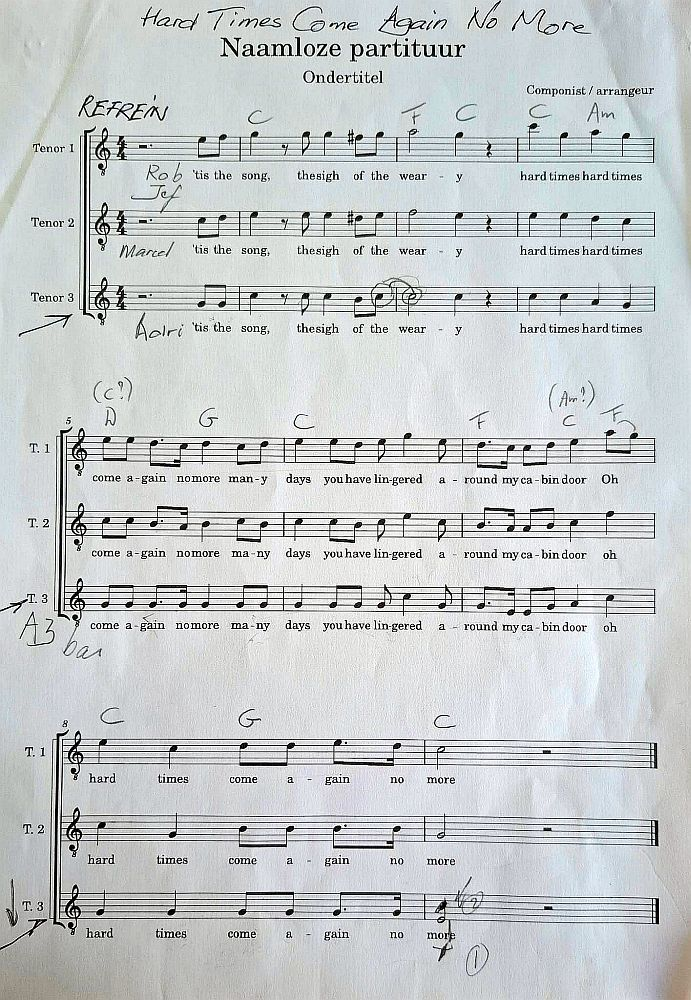
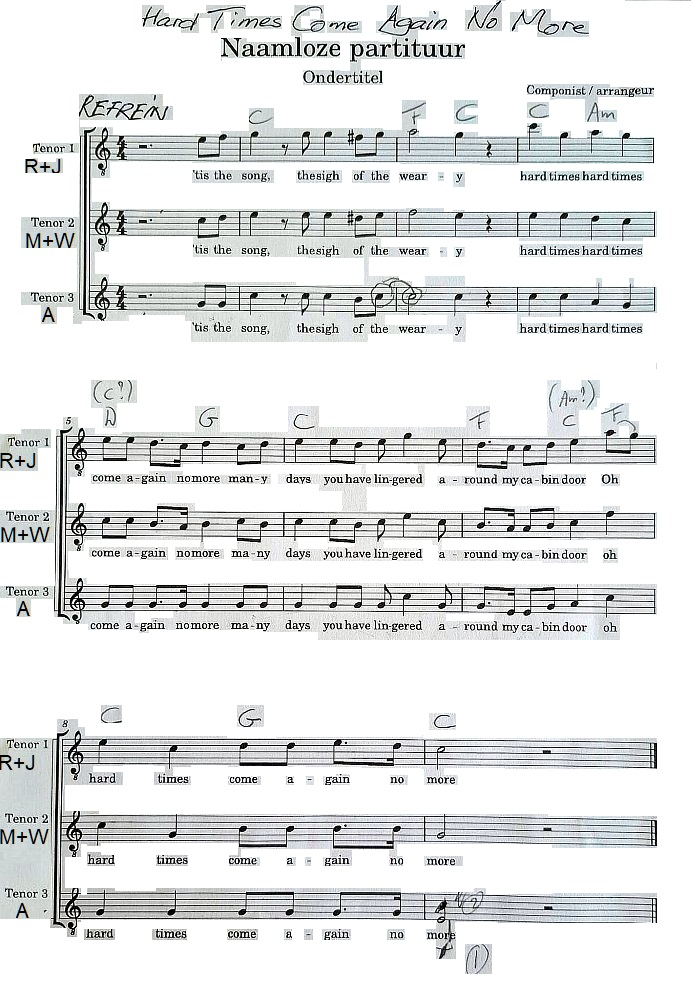
Add multiple notation buttons
The song parser now collects all image/PDF file references from the <meta> tag and renders them as a row of buttons. This adds the Hard Times variant files (A/J/M/R/W) and wires them into the song metadata so each notation image is accessible from the page.

diff --git a/index.html b/index.html
@@ -25,7 +25,8 @@ input[type=search]{width:100%;padding:11px 12px;font:inherit;border:1px solid va
 .bedien button.aan{background:var(--chord);border-color:var(--chord);color:var(--bg);font-weight:700}
 .bedien button:focus-visible{outline:2px solid var(--chord);outline-offset:2px}
 .bedien .sp{width:10px}
-.noten{display:inline-block;margin:4px 0 8px;padding:8px 14px;border:1px solid var(--chord);border-radius:6px;color:var(--chord);text-decoration:none;font-weight:600}
+.notenrij{display:flex;flex-wrap:wrap;gap:8px;margin:4px 0 10px}
+.noten{display:inline-block;padding:8px 14px;border:1px solid var(--chord);border-radius:6px;color:var(--chord);text-decoration:none;font-weight:600}
 .noten:hover,.noten:focus-visible{background:var(--card)}
 .video{aspect-ratio:16/9;width:100%;max-width:560px;border:0;border-radius:6px;background:#000;margin:6px 0 4px}
 .tekst{margin-top:14px}
@@ -69,8 +70,14 @@ function transponeer(akkoord, stappen, tabel) {
 
 function parseSong(tekst) {
   const meta = {};
+  const bestanden = [];   // alle <meta>-velden waarvan de waarde een pdf/afbeelding is -> knop
   tekst = tekst.replace(/<meta>([\s\S]*?)<\/meta>/i, (_, m) => {
-    m.split(';').forEach(d => { const i = d.indexOf(':'); if (i > 0) meta[d.slice(0,i).trim().toLowerCase()] = d.slice(i+1).trim(); });
+    m.split(';').forEach(d => {
+      const i = d.indexOf(':'); if (i <= 0) return;
+      const naam = d.slice(0,i).trim(), waarde = d.slice(i+1).trim();
+      meta[naam.toLowerCase()] = waarde;
+      if (/\.(pdf|jpe?g|png|gif|webp)$/i.test(waarde)) bestanden.push([naam, waarde]);
+    });
     return '';
   });
   let key = '';
@@ -91,7 +98,7 @@ function parseSong(tekst) {
     for (let i = 1; i < delen.length; i += 2) segs.push({ch:delen[i], ly:delen[i+1] || ''});
     regels.push({t:'ly', segs});
   }
-  return {meta, key, kop, capo, regels};
+  return {meta, bestanden, key, kop, capo, regels};
 }
 
 // 'Capo: No capo', 'Capo: -' of 'Capo: geen' -> 0; 'Capo: 2' of 'Capo: 2e fret' -> 2
@@ -169,6 +176,10 @@ async function toonSong(bestand) {
   let stap = (sk && origIdx >= 0 && idx(sk[1]) >= 0) ? (idx(sk[1]) - origIdx + 12) % 12 : 0;
   let capo = capoStart;
   const vid = youtubeId(song.meta.youtubeurl);
+  // knoppen: elk <meta>-veld met een pdf- of afbeeldingsbestand (noten, Sopraan, Alt, A, J, ...)
+  const notenKnoppen = song.bestanden
+    .map(([naam, w]) => `<a class="noten" href="${map}/${encodeURIComponent(w)}" target="_blank" rel="noopener">${naam.toLowerCase() === 'noten' ? '♪ Notenbeeld' : esc(naam)}</a>`)
+    .join('');
 
   app.innerHTML = `<a class="terug" href="#">‹ Alle songs</a>
     <h1>${esc(titel)}</h1>
@@ -176,7 +187,7 @@ async function toonSong(bestand) {
     <p class="info" id="keyinfo"></p>
     ${song.capo ? `<p class="info">${esc(song.capo)}</p>` : ''}
     <div class="bedien" id="bedien"></div>
-    ${song.meta.noten ? `<a class="noten" href="${map}/${encodeURIComponent(song.meta.noten)}" target="_blank" rel="noopener">♪ Notenbeeld</a><br>` : ''}
+    ${notenKnoppen ? `<div class="notenrij">${notenKnoppen}</div>` : ''}
     ${vid ? `<iframe class="video" src="https://www.youtube-nocookie.com/embed/${encodeURIComponent(vid)}" title="Video bij ${esc(titel)}" allow="encrypted-media; picture-in-picture" allowfullscreen loading="lazy"></iframe>` : ''}
     <div class="tekst" id="tekst"></div>`;
   if (song.meta.lettertype) document.getElementById('tekst').style.fontFamily = `"${song.meta.lettertype}", system-ui, sans-serif`;

diff --git a/Songs/Hard Times Come Again No More.html b/Songs/Hard Times Come Again No More.html
@@ -1,4 +1,4 @@
-<meta>titel: Hard Times Come Again No More ;letterType: Segoe UI;youtubeURL: uPqjQTkEA6g;noten: Hard Times Come Again No More.jpg</meta>
+<meta>titel: Hard Times Come Again No More ;letterType: Segoe UI;youtubeURL: uPqjQTkEA6g;noten: Hard Times Come Again No More.jpg;A: Hard Times A.png;J: Hard Times J.png;M: Hard Times M.png;R: Hard Times R.png;W: Hard Times W.png</meta>
 <key>{D}</key> 
 Capo: No capo
 
